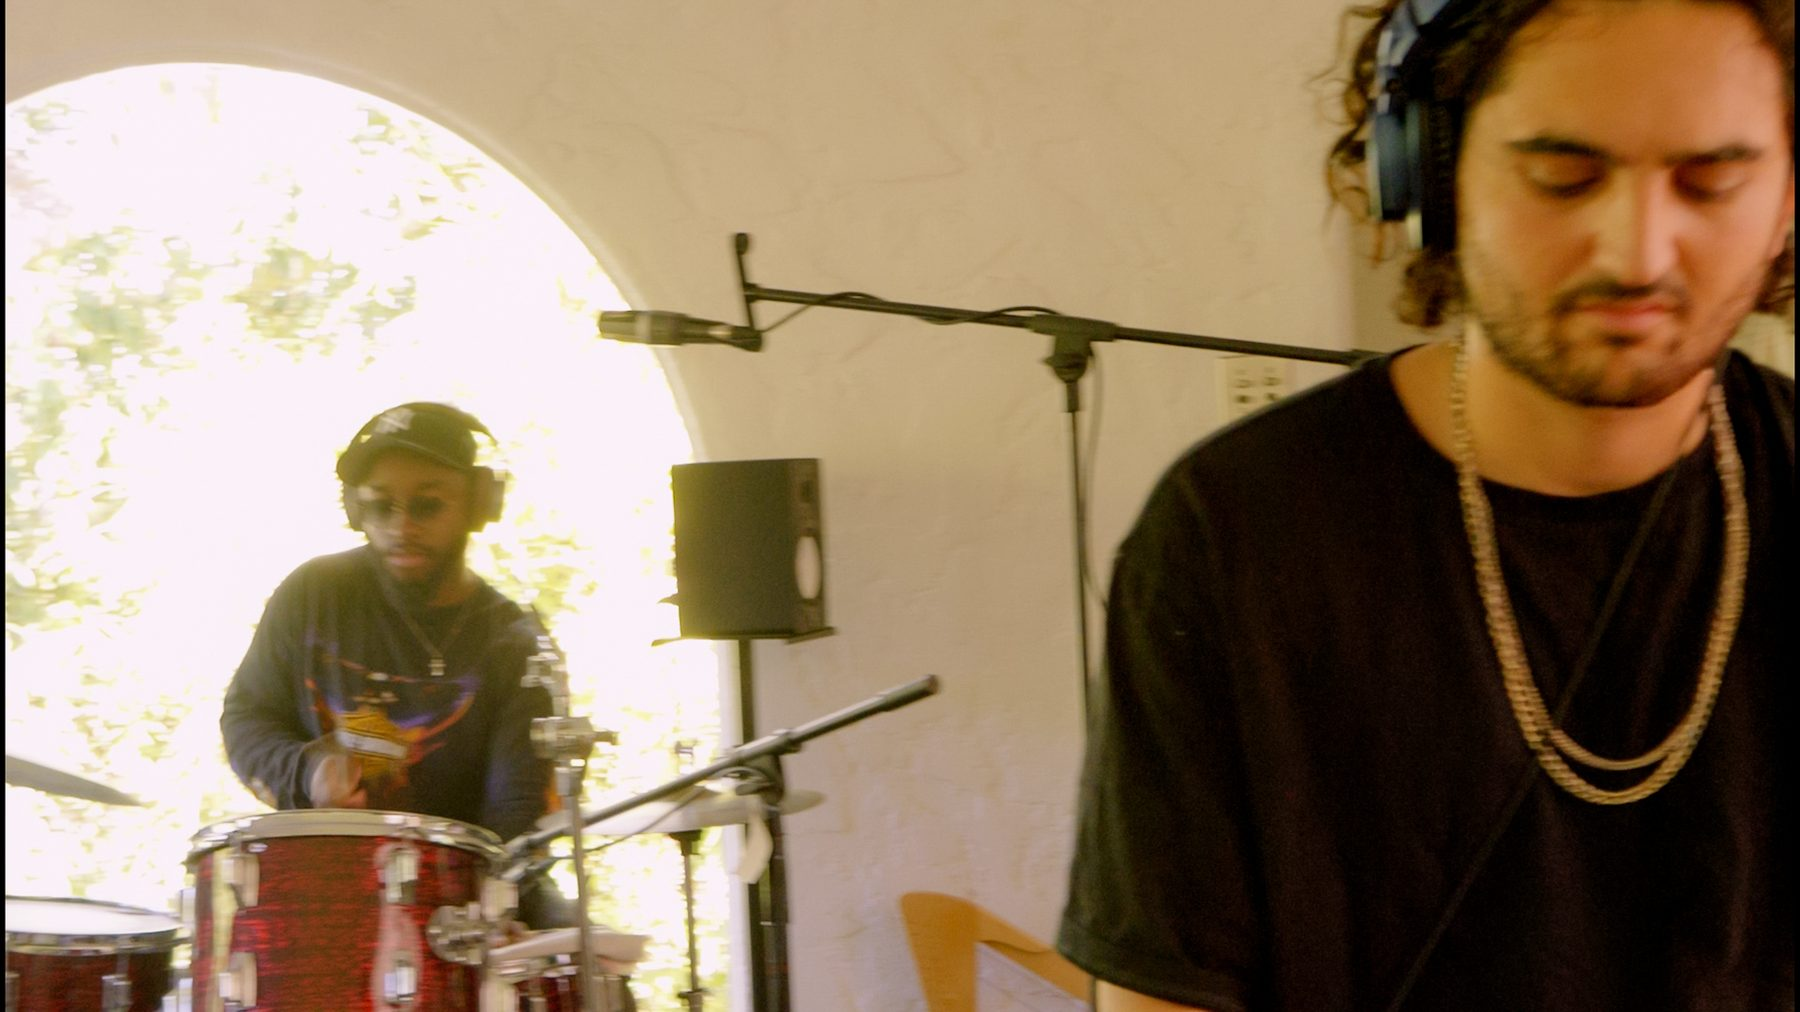
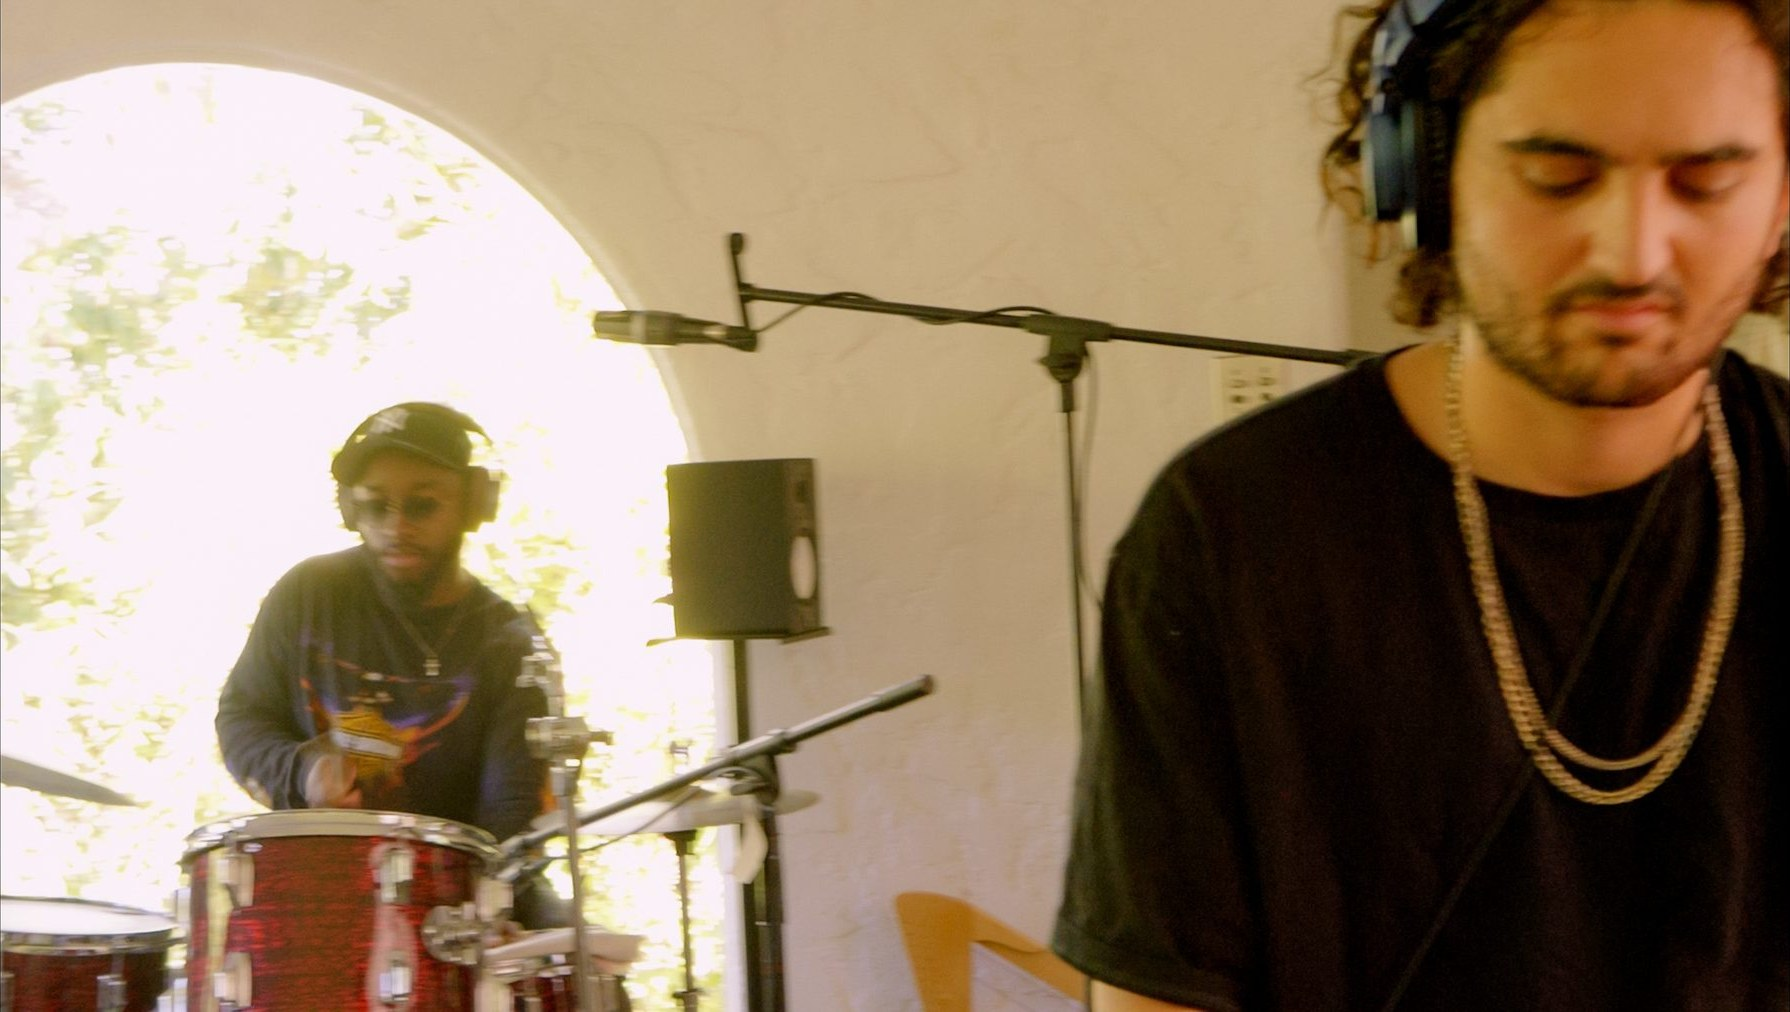
Fox Den pitch: garden preview image + trim photo borders

diff --git a/foxdenseason1pitch/index.html b/foxdenseason1pitch/index.html
@@ -11,14 +11,14 @@
 <meta property="og:site_name" content="Depalma House">
 <meta property="og:title" content="The Fox Den — Elijah Fox Series Pitch">
 <meta property="og:description" content="An instrumental performance series with Elijah Fox — a guest instrumentalist sits in for an original, improvised jam.">
-<meta property="og:image" content="https://depalma.house/foxdenseason1pitch/assets/band.jpg">
+<meta property="og:image" content="https://depalma.house/foxdenseason1pitch/assets/place.jpg">
 <meta property="og:image:width" content="1800">
-<meta property="og:image:height" content="1012">
-<meta property="og:image:alt" content="Elijah Fox and his band mid-take">
+<meta property="og:image:height" content="949">
+<meta property="og:image:alt" content="Elijah Fox's home studio and garden in the Los Angeles hills">
 <meta name="twitter:card" content="summary_large_image">
 <meta name="twitter:title" content="The Fox Den — Elijah Fox Series Pitch">
 <meta name="twitter:description" content="An instrumental performance series with Elijah Fox — a guest instrumentalist sits in for an original, improvised jam.">
-<meta name="twitter:image" content="https://depalma.house/foxdenseason1pitch/assets/band.jpg">
+<meta name="twitter:image" content="https://depalma.house/foxdenseason1pitch/assets/place.jpg">
 <link rel="preconnect" href="https://fonts.googleapis.com">
 <link rel="preconnect" href="https://fonts.gstatic.com" crossorigin>
 <link href="https://fonts.googleapis.com/css2?family=Fraunces:ital,opsz,wght@0,9..144,400;0,9..144,500;0,9..144,600;1,9..144,400&family=Hanken+Grotesk:wght@400;500;600&display=swap" rel="stylesheet">